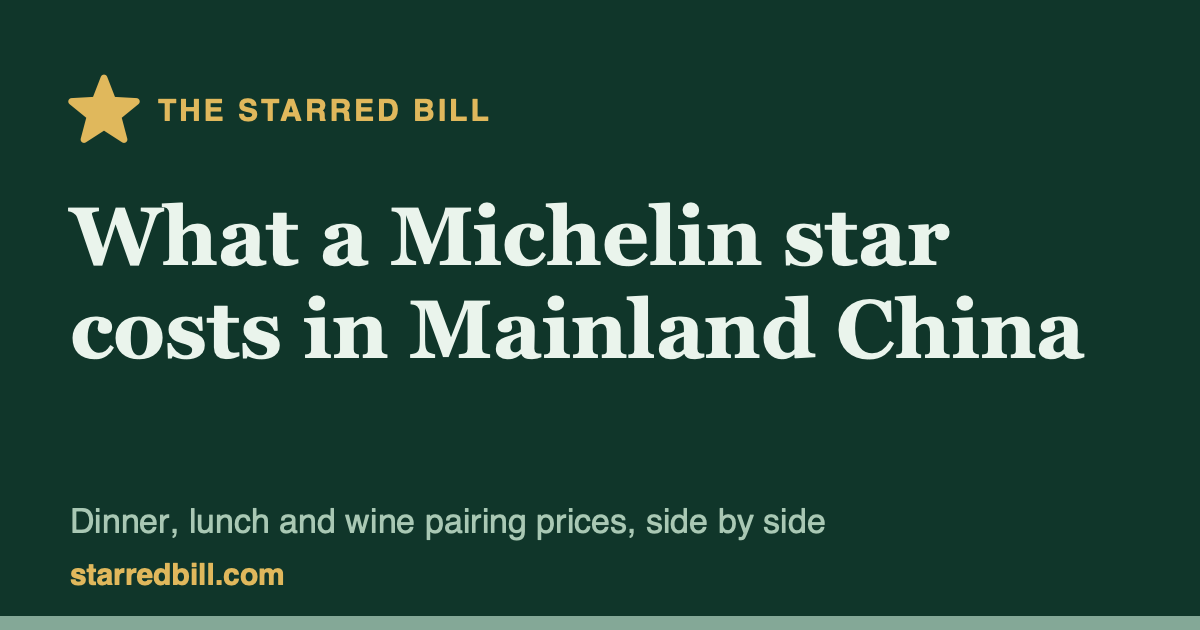
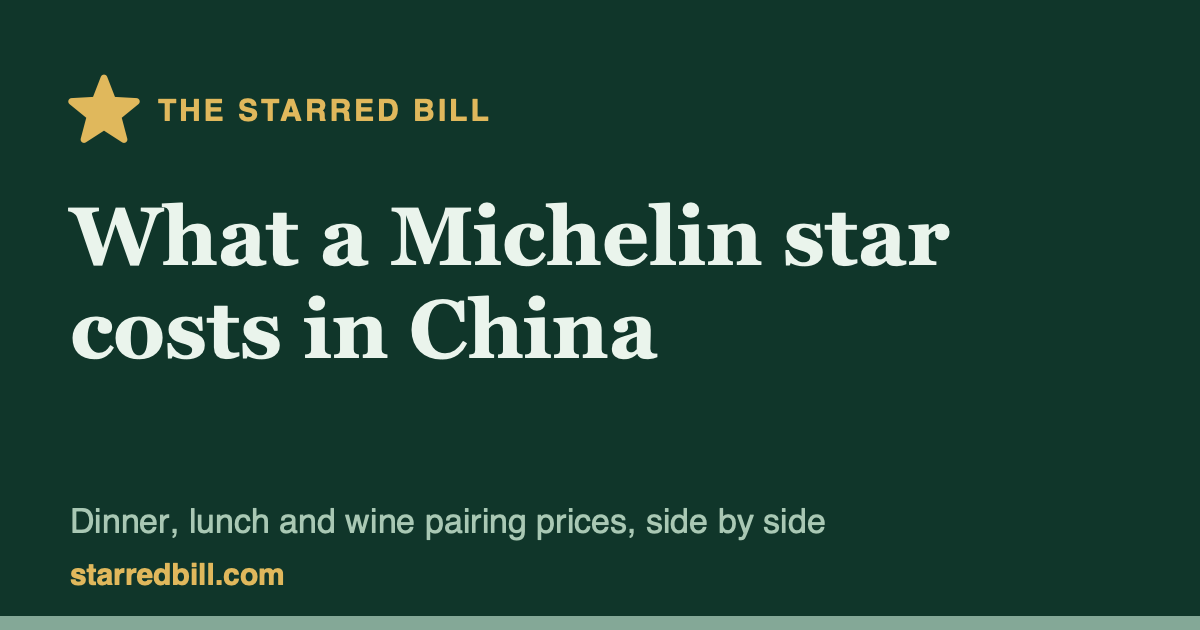
Call Mainland China just China

Changed region(s): [[0.3392, 0.4524, 0.925, 0.573]]

diff --git a/build.py b/build.py
@@ -504,7 +504,7 @@ WORLD_COUNTRIES = {
     "Abu Dhabi": ("uae", "United Arab Emirates", "阿拉伯聯合大公國"), "Dubai": ("uae", "United Arab Emirates", "阿拉伯聯合大公國"),
     "Andorra": ("andorra", "Andorra", "安道爾"), "Argentina": ("argentina", "Argentina", "阿根廷"), "Austria": ("austria", "Austria", "奧地利"),
     "Belgium": ("belgium", "Belgium", "比利時"), "Brazil": ("brazil", "Brazil", "巴西"), "Canada": ("canada", "Canada", "加拿大"),
-    "Chinese Mainland": ("china", "Mainland China", "中國大陸"), "Croatia": ("croatia", "Croatia", "克羅埃西亞"), "Czechia": ("czechia", "Czechia", "捷克"),
+    "Chinese Mainland": ("china", "China", "中國"), "Croatia": ("croatia", "Croatia", "克羅埃西亞"), "Czechia": ("czechia", "Czechia", "捷克"),
     "Estonia": ("estonia", "Estonia", "愛沙尼亞"), "Finland": ("finland", "Finland", "芬蘭"), "Germany": ("germany", "Germany", "德國"),
     "Greece": ("greece", "Greece", "希臘"), "Hungary": ("hungary", "Hungary", "匈牙利"), "Iceland": ("iceland", "Iceland", "冰島"),
     "Italy": ("italy", "Italy", "義大利"), "Latvia": ("latvia", "Latvia", "拉脫維亞"), "Liechtenstein": ("liechtenstein", "Liechtenstein", "列支敦斯登"),
